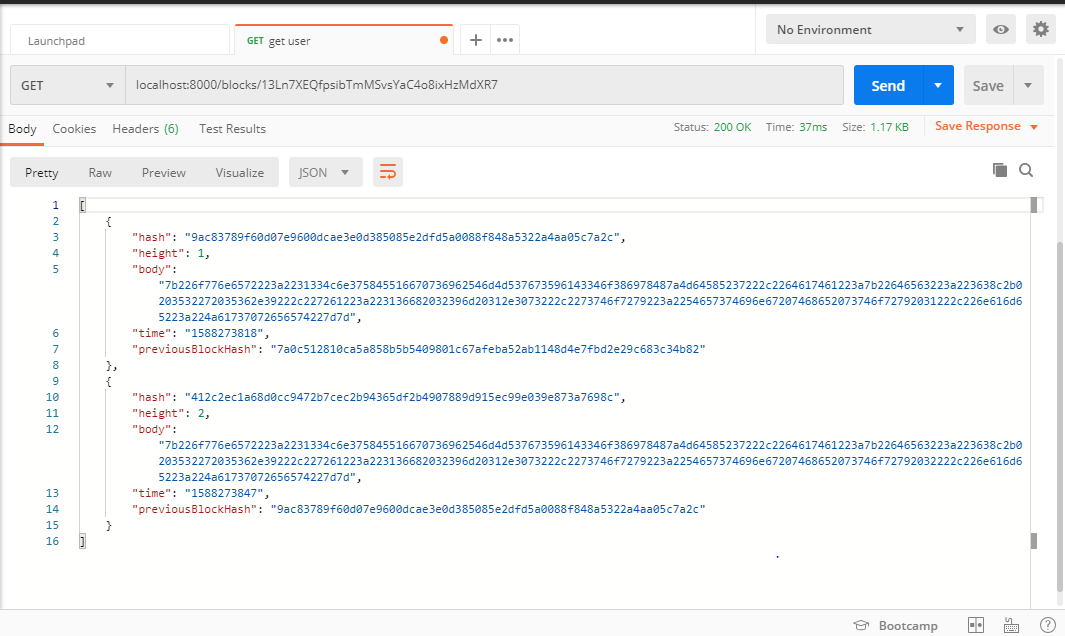
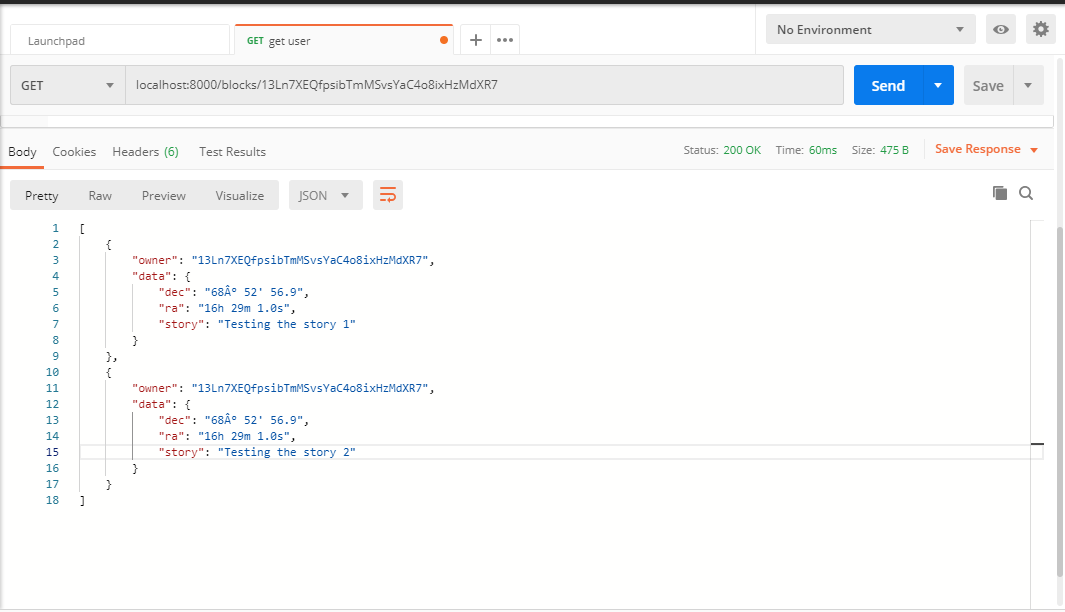
fixed errors

diff --git a/src/blockchain.js b/src/blockchain.js
@@ -206,7 +206,7 @@ class Blockchain {
                         console.log(data.owner===address)
                         if(data.owner===address)
                         {
-                            stars.push(block)
+                            stars.push(data)
                         }
                     }
                 })
@@ -229,15 +229,17 @@ class Blockchain {
         let self = this;
         let errorLog = [];
         return new Promise(async (resolve, reject) => {
+            let prevBlockHash = null
             await self.chain.map(block=>{
                 block.validate().then(valid=>{
-                    if(!valid)
+                    if(!valid || block.previousBlockHash !== prevBlockHash)
                     {
                         errorLog.push({
                             error: "Issue!! Validation Error",
                             InvalidBlock: block
                         })
                     }
+                    prevBlockHash = block.prevBlockHash;
                 }).catch(e=>{
                     console.log(e)
                 })
